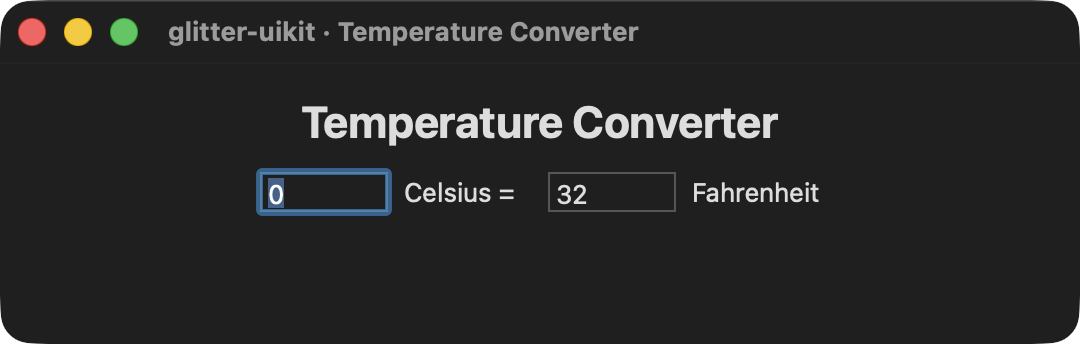
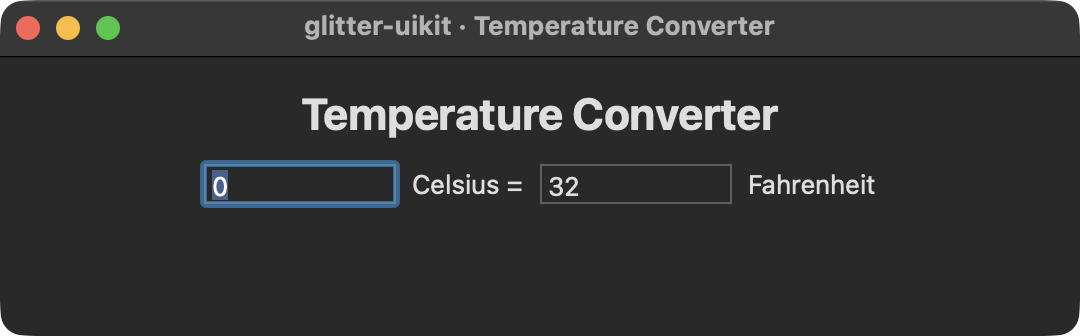
feat(examples): show all nine new controls in the widgets gallery
The gallery gains a second frame carrying :drop-down, :scale, :progress-bar,
:level-bar, :spin-button, :switch, :search-entry, :password-entry and :image.

One state key, :level, is deliberately read by THREE widgets at once — :scale
drives it while :progress-bar and :level-bar display it — so dragging the
slider shows a single key re-rendering every widget that reads it. That is the
whole state-atom model visible in one row, which no other example shows.

Also fixes a bug I introduced in this file earlier: the "restore seed data"
edit was a blunt replace of `:items []`, which also hit the :action/clear
handler's body. "Clear list" had been silently rewired to RESTORE the seed list
instead of clearing it. Caught by re-reading the handler while extending it,
not by any test — the empty-list path has no coverage because it is a rendering
concern, and the earlier empty-branch bug in the same spot was found by a human
clicking the same button.

Docs synced: examples gallery row for flights, the twelve -> thirteen and four
-> five counts across examples.md / index.md / testing-and-tasks.md / CONTRIBUTING.md,
and CONTRIBUTING.md's scope section now lists all eighteen tags rather than v1's nine.

limitations.md gains three sections, all measured rather than inferred:

- Sizing. :width-chars is a wrapping hint, not a width, with the four routes
  that were each tried live and did nothing tabulated next to the one that
  works (:width-request -> a real NSLayoutConstraint).
[…]

diff --git a/docs/guide/examples.md b/docs/guide/examples.md
@@ -1,9 +1,9 @@
 # The examples
 
-`examples/glitter_uikit/` holds **twelve runnable namespaces**, and every one
+`examples/glitter_uikit/` holds **thirteen runnable namespaces**, and every one
 has a `deps.edn` alias and a `bb` task. They come in two kinds:
 
-- **Four interactive demos** you open and click — the gallery below.
+- **Five interactive demos** you open and click — the gallery below.
 - **Eight live-AppKit smokes**, each a small, complete glitter program that
   mounts a real window, asserts against real AppKit state, and exits
   non-zero on failure.
@@ -22,6 +22,7 @@ never calls a GTK function. See [Limitations](limitations.md) for why.
 | [<img src="../demos/counter.png" width="150">](../demos/counter.png) | `counter` | The canonical demo. One state atom, a pure `state -> hiccup` view, handlers as data. The whole model in a window you can click through in ten seconds. |
 | [<img src="../demos/widgets.png" width="150">](../demos/widgets.png) | `widgets` | Every tag the renderer registers, in one window — `:vbox`/`:hbox`, `:label`, `:separator`, `:frame`, `:entry`, `:checkbutton`, `:button` (including a `:sensitive false` one) and a `:scrolled` list. `:separator` and `:scrolled` appear in no other example, so this is the only place either is shown running. Type a name and press Add, or tick the checkbutton first to add it in capitals. |
 | [<img src="../demos/temperature.png" width="150">](../demos/temperature.png) | `temperature` | The [7GUIs](https://eugenkiss.github.io/7guis/tasks/#temp) Temperature Converter: two linked numeric fields, each edit updating the other. Ported from glitter with its domain logic carried across unchanged — the pure half of a glitter app is renderer-agnostic, which is the point of the split. |
+| [<img src="../demos/flights.png" width="150">](../demos/flights.png) | `flights` | The [7GUIs](https://eugenkiss.github.io/7guis/tasks/#flight-booker) Flight Booker: a `:drop-down` choosing one-way/return, two strictly-validated date fields, and a Book button gated on both. An ill-formatted date is flagged inline in red — AppKit has no stylesheet, so glitter's `:class ["error"]` is replaced by a `:markup` label rather than silently lost. |
 | [<img src="../demos/todo.png" width="150">](../demos/todo.png) | `todo` | A task board on `glitter.nexus`: derived counts (3 total / 1 done / 2 left) computed inline on every re-render — glitter has no reactive-derivation primitive — plus an entry with `:change`/`:activate`, checkbutton toggles, and list rendering in a frame. The counts row is the whole point: it's recomputed from `:tasks` on every render, not tracked as separate state. |
 
 Every preview is a real screenshot of the demo running, not a mockup. They
@@ -30,13 +31,18 @@ full-size image.
 
 ### On 7GUIs
 
-`counter` and `temperature` are 7GUIs tasks 1 and 2. glitter also ships
-`flights`, `timer` and `crud`, and those do **not** port to this renderer as
-they stand — each needs a widget `glitter-uikit` does not register:
-`:drop-down` for the flight booker, `:progress-bar` and `:scale` for the
-timer, `:list-box` for CRUD. Adding them is a widget-layer change, not an
-examples change, and v1's scope is deliberately the nine tags
-`glimmer-uikit` had (see [Limitations](limitations.md)).
+`counter`, `temperature` and `flights` are 7GUIs tasks 1, 2 and 3.
+
+`timer` (task 4) needs one more piece of machinery rather than a widget: its
+`:scale` and `:progress-bar` both exist now, but it has to tick, and this
+renderer's only scheduling primitive is a ONE-SHOT `NSTimer` (`timer-after!`,
+used for `:auto-quit-ms`). A repeating timer plus a tick registry is a small
+addition, just not one this arc made.
+
+`crud` (task 5) needs `:list-box`, i.e. `NSTableView` — the one control
+deliberately left out of the widget expansion, because it needs a data source
+and a delegate bridged through the FFI, which is more work than every other
+tag combined.
 
 ## Live-AppKit smokes
 

diff --git a/docs/guide/limitations.md b/docs/guide/limitations.md
@@ -280,6 +280,56 @@ upstream and carried forward deliberately rather than fixed opportunistically:
 the real fix is decoding entities *before* `parse-attrs` runs, which is
 its own scoped task, not a one-line patch to `color-hex`.
 
+## Sizing: `:width-chars` is not a width, `:width-request` is
+
+`:width-chars` / `:max-width-chars` route to `setPreferredMaxLayoutWidth:`,
+which is a text-**wrapping** hint. It does not stop a control from being
+compressed. The measured consequences were not subtle: an `:entry` beside a
+label in a stack was squeezed to **zero width** and the field vanished
+entirely, and where it survived, a ten-character date rendered as `26.08.20`.
+
+Four plausible-looking routes were each tried against a live window and each
+did nothing:
+
+| attempt | result |
+|---|---|
+| `:vexpand false` on the container | no effect |
+| `:hexpand true` on the field | no effect |
+| `:hexpand true` on the row | no effect |
+| `:halign :fill` → `NSLayoutAttributeWidth` | no effect |
+
+What works is `:width-request`, which installs a real `NSLayoutConstraint`
+(`width == constant`) via `ffi.clj`'s `set-width!`. Use it whenever a control
+must be a given size. It is applied once per view and guarded, because
+constraints are cumulative — re-adding one on every re-render would stack
+conflicting constraints on the same view.
+
+`:halign :fill` is still mapped, since `NSLayoutAttributeWidth` is the correct
+attribute for a vertical stack, but it did **not** fix the narrow-row case and
+whatever governs that is unresolved. Treat it as available-but-unproven.
+
+## Props accepted and ignored on the post-v1 controls
+
+These exist so a glitter view ports across renderers unchanged, but AppKit has
+no counterpart for them. They are listed rather than silently dropped:
+
+| tag | ignored props | why |
+|---|---|---|
+| `:scale` | `:step`, `:digits`, `:draw-value` | `NSSlider` is continuous, draws no value label, and quantises only through tick marks. Use `:ticks` / `:ticks-only` instead. |
+| `:progress-bar` | `:show-text`, `:text` | `NSProgressIndicator` draws no text. Pair it with a `:label`. |
+| `:spin-button` | `:digits` | An `NSStepper` is only the arrows — unlike `GtkSpinButton` it has no built-in text field, so pair it with a `:label` or `:entry`. |
+| `:password-entry` | `:show-peek-icon` | No AppKit counterpart. |
+| `:search-entry` | `:search-delay` | `NSSearchField` sends its action as you type. |
+| `:image` | `:pixel-size` | Size it with `:width-request` or the surrounding layout. |
+
+## `:switch` needs macOS 10.15, unlike every other tag
+
+`NSSwitch` is `API_AVAILABLE(macos(10.15))` — verified in the SDK header, not
+assumed. Every other tag works on the project's 10.13 floor. The spec's `:ctor`
+throws a named error when the class is absent rather than letting a null class
+crash inside `objc_msgSend` with nothing pointing at the cause, so an older
+system gets a clear message about that one tag instead of an opaque abort.
+
 ## Two gaps that are about verification, not behavior
 
 The rest of this page is about what the code actually does. These two

diff --git a/CONTRIBUTING.md b/CONTRIBUTING.md
@@ -102,6 +102,7 @@ Full topic breakdown: `docs/guide/index.md`.
 | `examples/glitter_uikit/counter.clj` | Counter demo — state atom + view function + action dispatch |
 | `examples/glitter_uikit/widgets.clj` | Widget-gallery demo — every registered tag in one window; the only example that uses `:separator` or `:scrolled` |
 | `examples/glitter_uikit/temperature.clj` | 7GUIs Temperature Converter — two linked fields; domain logic ported unchanged from glitter |
+| `examples/glitter_uikit/flights.clj` | 7GUIs Flight Booker — `:drop-down`, validated date fields, constraint-gated Book button |
 | `examples/glitter_uikit/todo.clj` | Task-board demo — derived counts, entry/checkbox list |
 | `examples/glitter_uikit/smoke.clj` | Basic smoke: mount a tree and run the loop without exception |
 | `examples/glitter_uikit/keyed_smoke.clj` | Keyed reorder — verifies live AppKit widget order via `glitter-uikit.widget/stack-children` (reads `arrangedSubviews`, not GTK4's `-firstChild`/`-nextSibling`) |
@@ -199,16 +200,26 @@ Full provenance (which file ported from where, every documented deviation):
 
 ## Scope (shipped)
 
-The full AppKit renderer for glitter: nine widget tags (`:window`,
-`:box`/`:hbox`/`:vbox`, `:button`, `:label`, `:entry`, `:checkbutton`,
-`:separator`, `:frame`, `:scrolled`), mapped to their AppKit equivalents
-(`NSWindow`, `NSStackView`, `NSButton`, `NSTextField` in various styles,
-`NSBox`, `NSScrollView`). Eight live-AppKit smokes (keyed reorder, child
-replacement/insertion, handler lifecycle, main-thread rendering,
-state-atom reactivity, nREPL live editing, plus the basic smoke) plus the
-full unit suite. Four interactive demos (counter, widget gallery, the 7GUIs
-Temperature Converter, task board) mirroring
-glitter's own examples.
+The full AppKit renderer for glitter: **eighteen widget tags**.
+
+v1's nine — `:window`, `:box`/`:hbox`/`:vbox`, `:button`, `:label`, `:entry`,
+`:checkbutton`, `:separator`, `:frame`, `:scrolled` — mapped to `NSWindow`,
+`NSStackView`, `NSButton`, `NSTextField` in various styles, `NSBox` and
+`NSScrollView`.
+
+Nine added since, sourced from the AppKit headers in the local macOS SDK:
+`:drop-down` (`NSPopUpButton`), `:scale` (`NSSlider`), `:spin-button`
+(`NSStepper`), `:progress-bar` (`NSProgressIndicator`), `:level-bar`
+(`NSLevelIndicator`), `:switch` (`NSSwitch`), `:password-entry`
+(`NSSecureTextField`), `:search-entry` (`NSSearchField`) and `:image`
+(`NSImageView`). Tag, prop and event names are glitter's own GTK-side ones, so
+a view ports between renderers unchanged.
+
+Eight live-AppKit smokes (keyed reorder, child replacement/insertion, handler
+lifecycle, main-thread rendering, state-atom reactivity, nREPL live editing,
+plus the basic smoke) plus the full unit suite. Five interactive demos
+(counter, widget gallery, the 7GUIs Temperature Converter, the 7GUIs Flight
+Booker, task board) mirroring glitter's own examples.
 
 Known v1 limitations, inherited unmodified from glimmer-uikit: `:class`
 and `:style` props are silently accepted but do nothing (AppKit has no

diff --git a/docs/guide/index.md b/docs/guide/index.md
@@ -60,9 +60,9 @@ against the previous vdom and issues the minimal set of `IRender`/
 ## Pages
 
 ### Orientation
-- [`examples.md`](examples.md) — the catalogue of all twelve runnable
-  namespaces: the four interactive demos (`counter`, `widgets`,
-  `temperature`, `todo`) with
+- [`examples.md`](examples.md) — the catalogue of all thirteen runnable
+  namespaces: the five interactive demos (`counter`, `widgets`,
+  `temperature`, `flights`, `todo`) with
   screenshots and what each shows about the model, plus an index of the
   eight live-AppKit smokes and the one property each one pins. Also why
   the screenshots are stills rather than animations for now.

diff --git a/docs/guide/testing-and-tasks.md b/docs/guide/testing-and-tasks.md
@@ -90,8 +90,8 @@ landed."*
 
 ## Interactive demos
 
-`jolt counter`, `jolt widgets`, `jolt temperature` and `jolt todo` are the
-four demos meant to be run and clicked, not asserted on — `counter.clj` is the canonical
+`jolt counter`, `jolt widgets`, `jolt temperature`, `jolt flights` and
+`jolt todo` are the five demos meant to be run and clicked, not asserted on — `counter.clj` is the canonical
 Replicant-style counter (data-driven `:on {:click [[:action/dec]]}`
 dispatch, all state in one top-level atom), and `todo.clj` is a larger
 task-board demo built on `glitter.nexus` (action-expansions, an

diff --git a/docs/demos/README.md b/docs/demos/README.md
@@ -28,3 +28,7 @@ A task board on glitter.nexus: derived counts computed inline, an entry, and che
 
 ![temperature](temperature.png)
 
+### flights
+
+![flights](flights.png)
+
